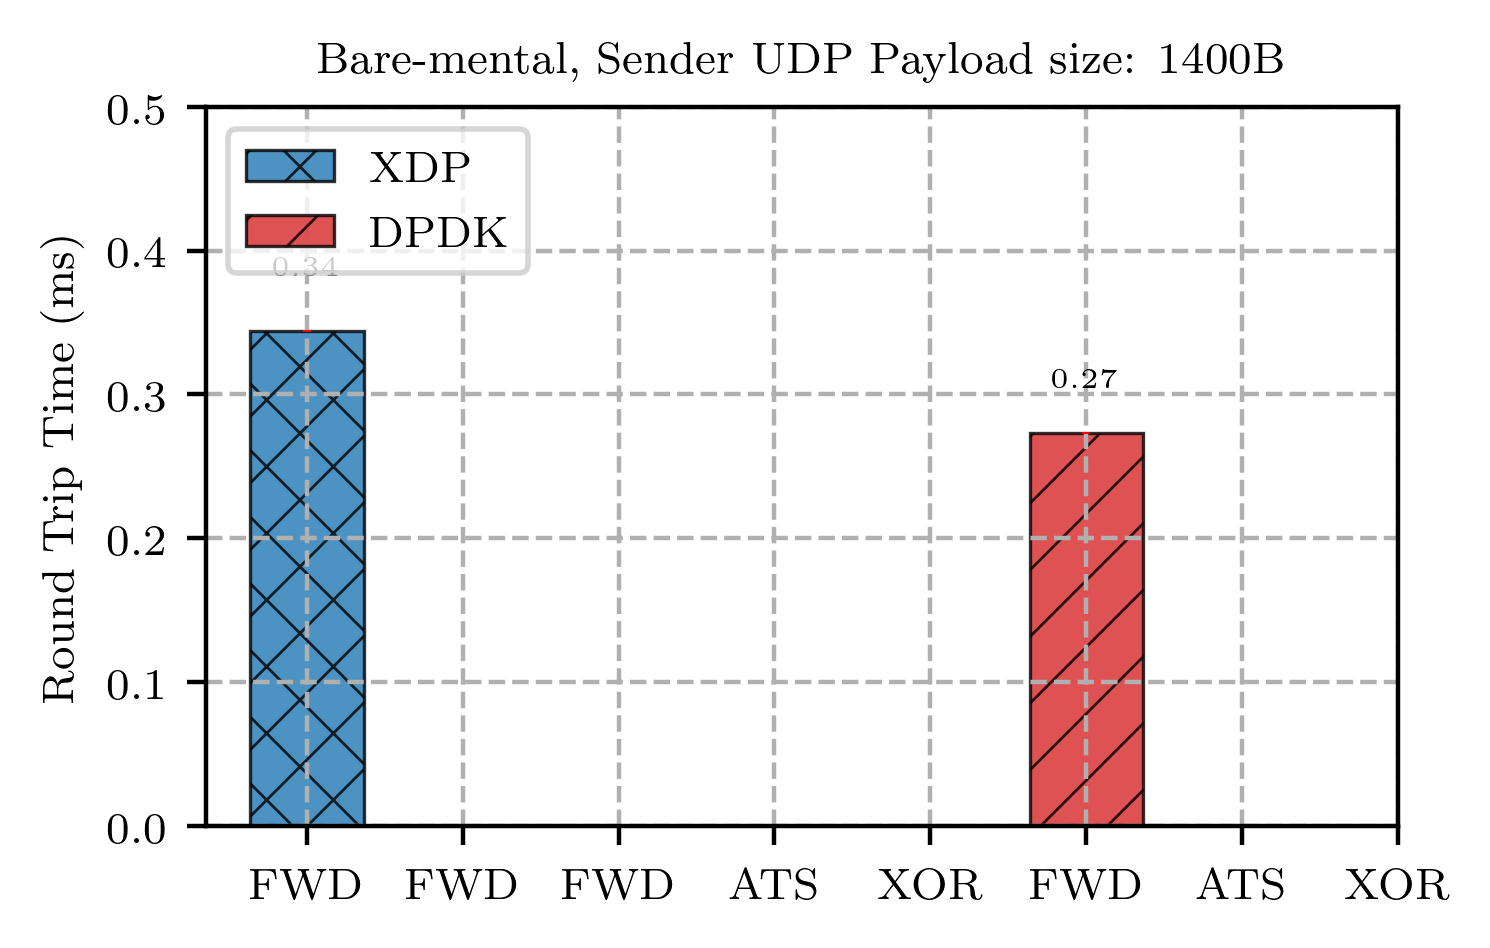
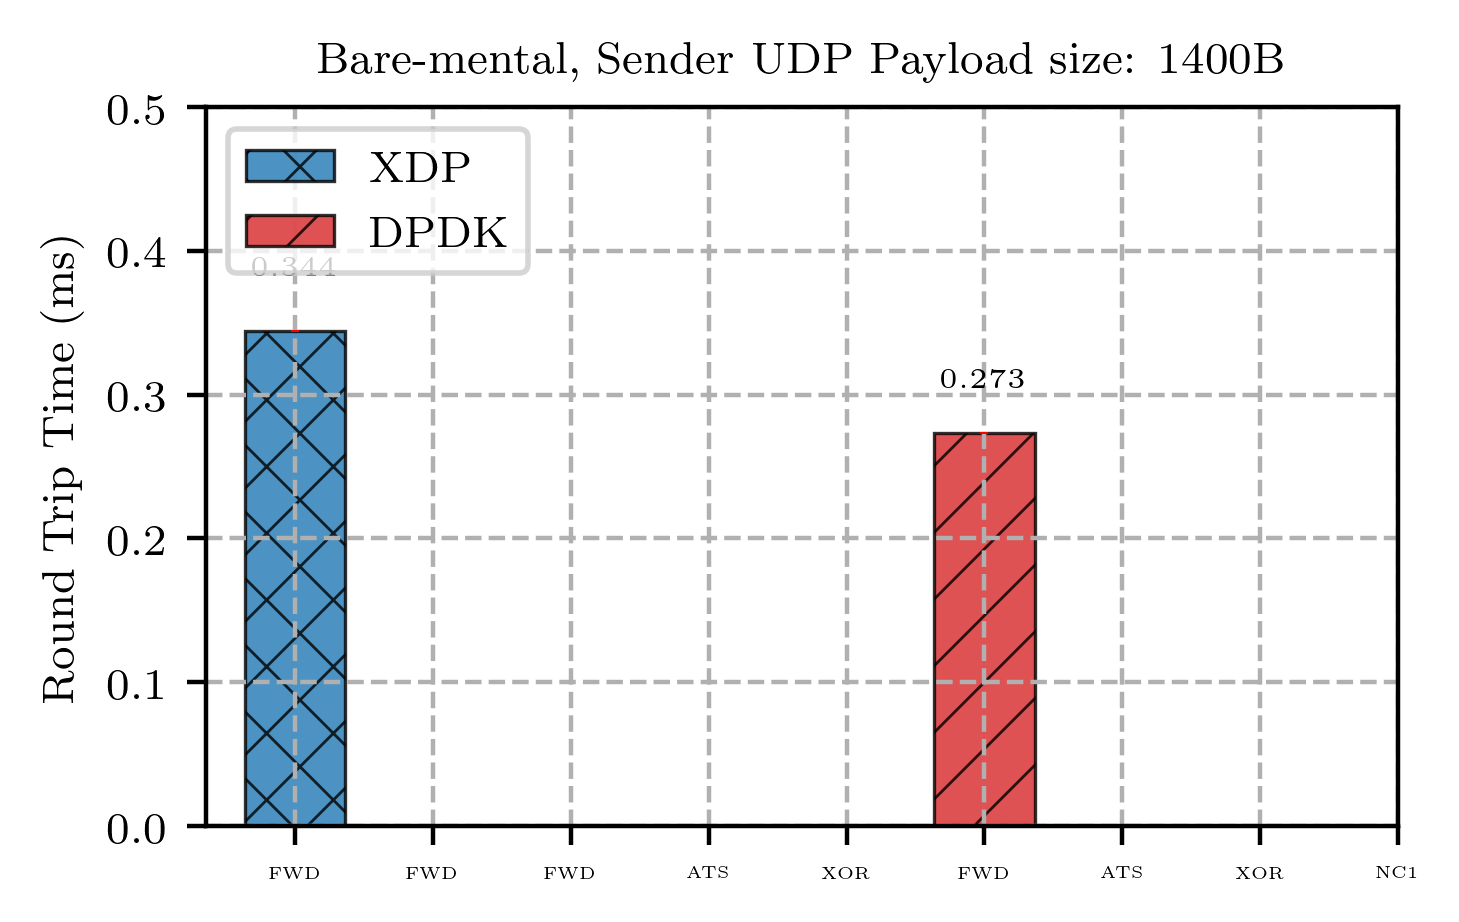
<data>: Add result of DPDK NC1
- Encoder and Decoder are running on the same physical node

Changed region(s): [[0.0308, 0.0304, 0.987, 0.9718]]

diff --git a/evaluation/round_trip_time/plot.py b/evaluation/round_trip_time/plot.py
@@ -147,7 +147,7 @@ def plot_ipd(payload_size='1400B', profile=''):
                     'FWD',
                     'FWD', 'ATS', 'XOR',
                     'FWD', 'ATS', 'XOR',
-                    'NC'
+                    'NC1'
                     ]
     colors = [cmap(x) for x in (0, 0, 1, 2, 2, 2, 3, 3, 3, 3)]
     hatch_patterns = ('xx', 'xx', '++', '\\\\', '\\\\',
@@ -158,7 +158,7 @@ def plot_ipd(payload_size='1400B', profile=''):
                         'FWD',
                         'FWD', 'ATS', 'XOR',
                         'FWD', 'ATS', 'XOR',
-                        'NC'
+                        'NC1'
                         ]
         colors = [cmap(x) for x in (0, 1, 2, 2, 2, 3, 3, 3, 3)]
         hatch_patterns = ('xx', '++', '\\\\', '\\\\',
@@ -173,7 +173,7 @@ def plot_ipd(payload_size='1400B', profile=''):
                         'FWD',
                         'FWD', 'ATS', 'XOR',
                         'FWD', 'ATS', 'XOR',
-                        'NC',
+                        'NC1',
                         ]
         labels[0] = "XDP"
         labels[2] = "LKF"

diff --git a/delay_timer/udp_rtt_timer.py b/delay_timer/udp_rtt_timer.py
@@ -154,7 +154,8 @@ class UDPClient(Base):
                                        (self._send_ip, self._send_port))
                 time.sleep(self._ipd * 2)
                 send_idx += 1
-            raise KeyboardInterrupt
+
+        # Raise exception to main thread
 
     def _recv_pack(self):
         self._recv_sock.setblocking(False)
